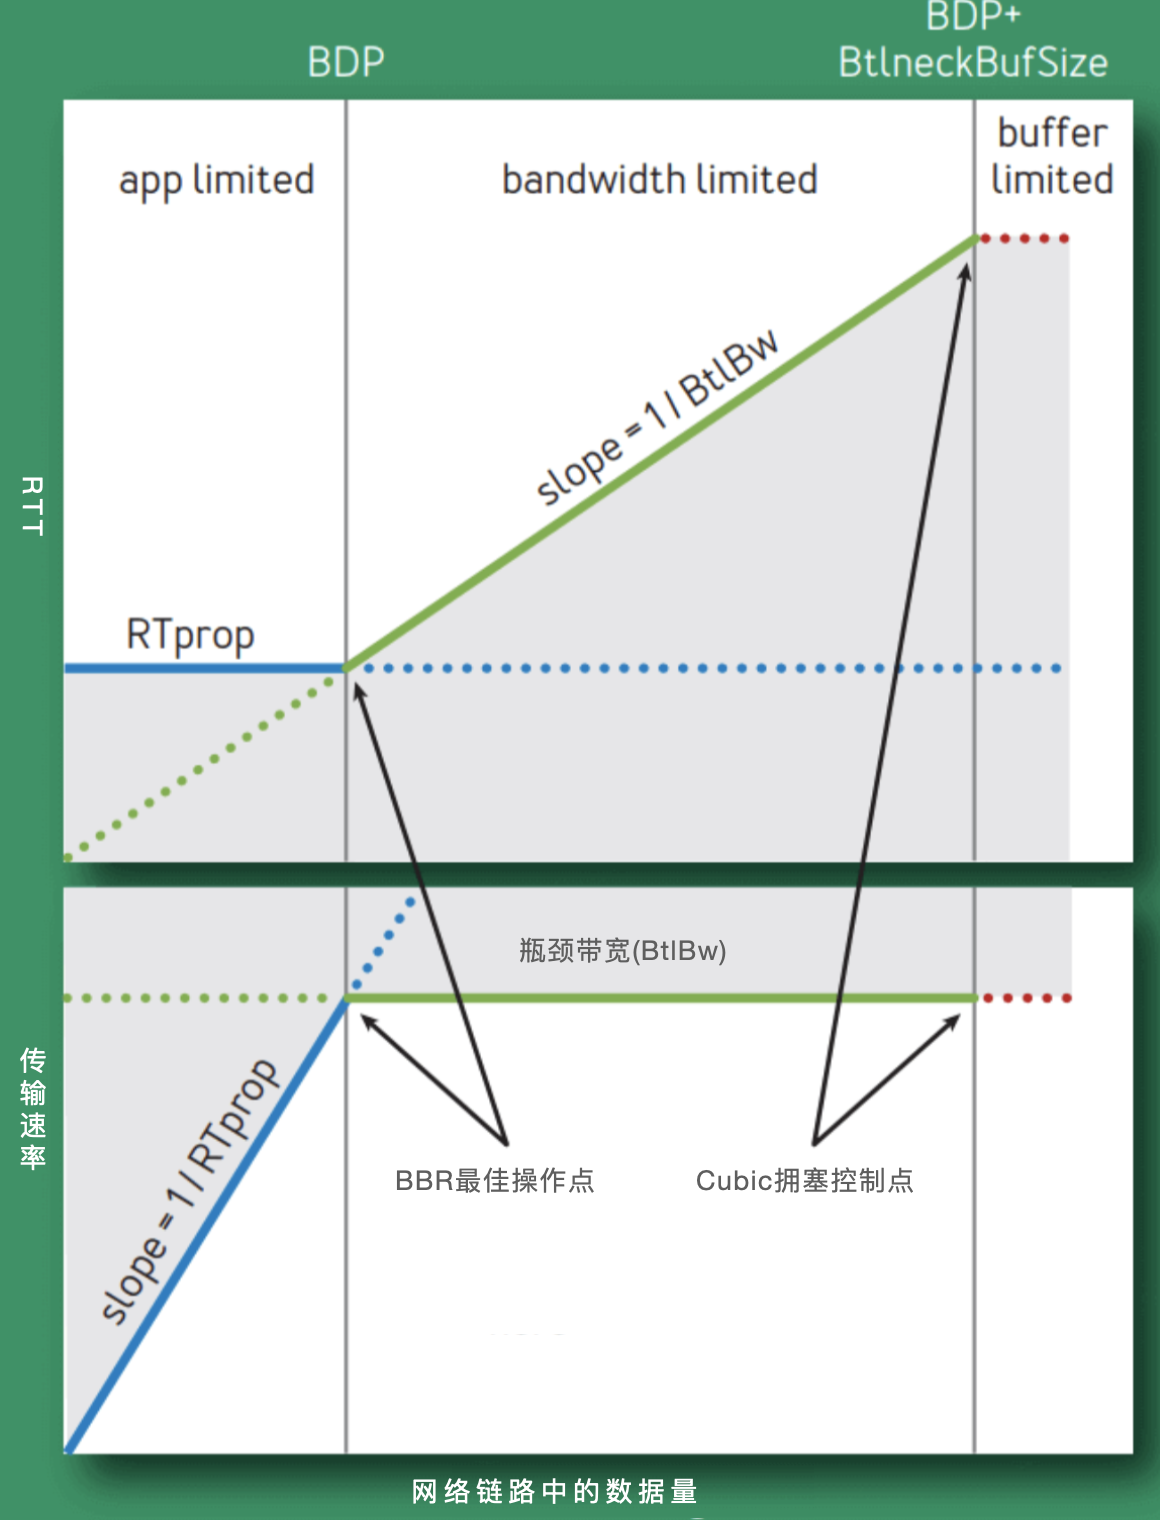
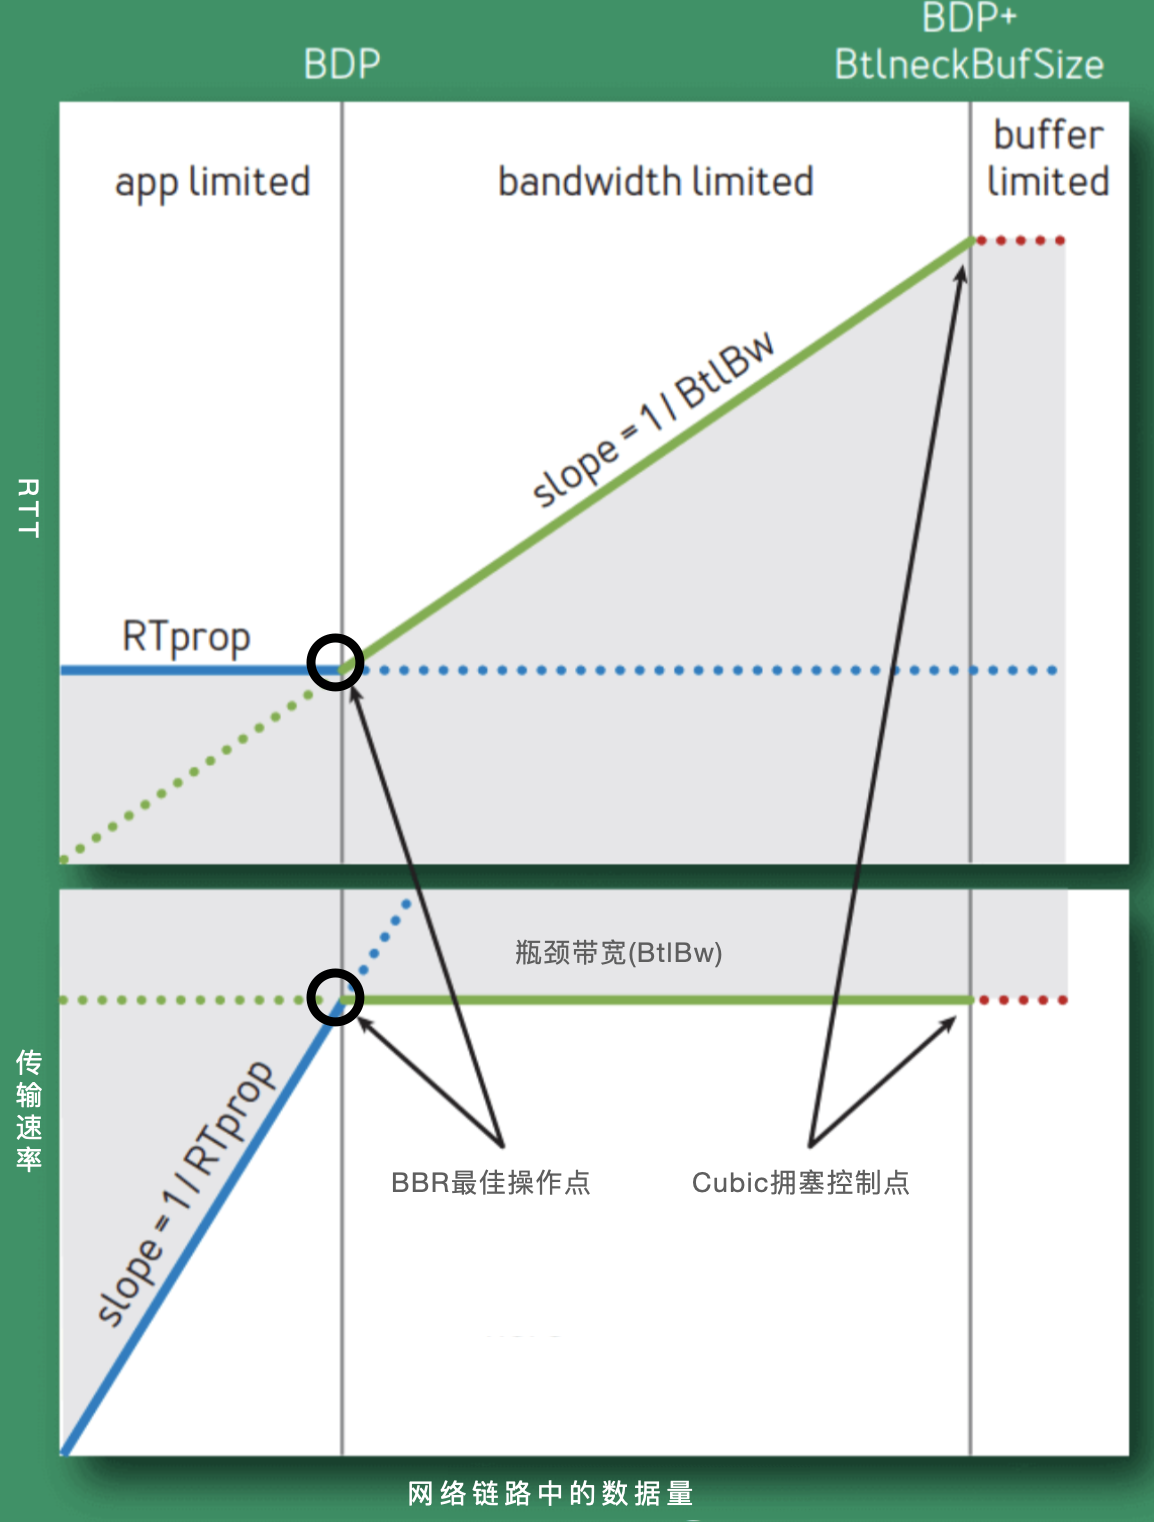
完成拥塞控制内容

diff --git a/http/bbr.md b/http/bbr.md
@@ -66,39 +66,16 @@ $ iperf3 -c 10.0.1.188 -p 8080
 
 如果说上一次1980年代的拥塞控制旨在收敛，那么这一次 BBR 则旨在效能最大化。
 
+### 1. 网络效能最大化
 
-### 1. 基于丢包的拥塞控制算法缺陷
-
-如图2-21所示，可以把网络链路想象为一根水管，路径上的中间设备（交换机、路由器等）会自带一个蓄水池（报文缓存队列），一般不会使用。而当水流变大时，蓄水池开始蓄水，如果超过蓄水极限，则水流会溢出(报文丢包)。当发送端感知到丢包时，传统的 TCP 拥塞控制算法会减小发送端的拥塞窗口 Cwnd，限制报文的发送。这类拥塞控制算法也被称为基于丢包（Loss-based）的拥塞控制算法。
-
-<div  align="center">
-	<img src="../assets/water.png" width = "450"  align=center />
-	<p>图2-21 网络链路概念</p>
-</div>
-
-### 2. 网络拥塞与控制
-
-来看一张来自 Google 文章内的设计图，如图2-22所示，通过该图我们先了解网络拥塞控制中的各个影响因素。
+拥塞控制的目的就是寻找网络工作中的最优点，如图2-22所示，圆圈所示即为网络工作的最优点。此时数据包的投递率=BtlBW(瓶颈链路带宽)，保证了瓶颈链路被100%利用；在途数据包总数=BDP(时延带宽积)，保证未占用 buffer。
 
 <div  align="center">
 	<img src="../assets/bbr-cc.png" width = "450"  align=center />
-	<p>图2-22 网络链路环境因素概览</p>
+	<p>图2-22 网络中的最优点</p>
 </div>
 
-图2-22从左到右可分为3个区域：
-
-- **(0, BDP)** 该区间客户端发送的数据并未占满瓶颈带宽，称为“应用受限区（app limited）”。
-- **(BDP, BtlneckBufSize)** 该区间已经达到链路瓶颈容量，但还未超过瓶颈容量+缓冲区容量，此时应用能发送的数据量受带宽限制，称为“带宽受限区（bandwidth limited）”。
-- **(BDP + BtlneckBufSize, infinity)** 该区间实际发送速率已经超过瓶颈容量+缓冲区容量 ，多出来的数据会被丢弃，缓冲区大小决定了丢包多少，称为“缓冲区受限区（buffer limited）”。
-
-拥塞控制的目的就是寻找网络工作中的最优点，如图2-23所示，红色圆圈所示即为网络工作的最优点，此时数据包的投递率=BtlBW(瓶颈链路带宽)，保证了瓶颈链路被100%利用；在途数据包总数=BDP(时延带宽积)，保证未占用 buffer。
-
-<div  align="center">
-	<img src="../assets/bbr-optimal-point.png" width = "450"  align=center />
-	<p>图2-23 寻找网络中的最优点</p>
-</div>
-
-然而 max BW 和 min RTT 不能被同时测得，如图2-24所示。要测量最大带宽，就要把瓶颈链路填满，此时 buffer 中有一定量的数据包，延迟较高。要测量最低延迟，就要保证 buffer 为空，网络中数据包越少越好，但此时带宽较低。
+然而拍瓶颈带宽和最小延迟无法同时测得，如图2-24所示。要测量最大带宽，就要把瓶颈链路填满，此时 buffer 中有一定量的数据包，影响延迟指标。要测量最低延迟，就要保证 buffer 为空，网络中数据包越少越好，但此时带宽较低。
 
 <div  align="center">
 	<img src="../assets/bbr-2.png" width = "450"  align=center />
@@ -109,39 +86,34 @@ $ iperf3 -c 10.0.1.188 -p 8080
 
 BBR 的设计思路是不再考虑丢包作为拥塞的判断条件，交替测量带宽和延迟，用一段时间内的带宽极大值（BtlBW）和延迟极小值（RTprop）作为估计值。
 
-**控制时机提前，不再等到丢包时再进行暴力限制，而是控制稳定的发包速度，尽量榨干带宽，却又不让报文在中间设备的缓存队列上累积**。为了榨干带宽，BBR 会周期性地去探测是否链路条件变好了，如果是，则加大发送速率。为了不让报文在中间设备的缓存队列上累积，BBR 会周期性地探测链路的最小 RTT，并使用该最小 RTT 计算发包速率。
+**BBR将控制时机提前，不再等到丢包时再进行暴力限制，而是控制稳定的发包速度，尽量榨干带宽，却又不让报文在中间设备的缓存队列上累积**。为了榨干带宽，BBR 会周期性地去探测是否链路条件变好了，如果是，则加大发送速率。为了不让报文在中间设备的缓存队列上累积，BBR 会周期性地探测链路的最小 RTT，并使用该最小 RTT 计算发包速率。
 
+### 4. BBR 状态机
 
-### 2. BBR 状态机
-
-采用 BBR 进行拥塞控制的流在任一时刻都是处于以下四个状态之一：启动（Startup）、排空（Drain）、带宽探测（Probe Bandwidth）和 时延探测（Probe RTT）。其中 Probe Bandwidth 属于稳态，其他三个状态都是暂态，如图2-23所示，四个状态的转移图。
+采用 BBR 进行拥塞控制时，任一时刻都是处于以下四个状态之一：启动（Startup）、排空（Drain）、带宽探测（Probe Bandwidth）和时延探测（Probe RTT）。其中带宽探测属于稳态，其他三个状态都是暂态，如图2-23所示，四个状态的转移图。
 
 <div  align="center">
 	<img src="../assets/bbr-status.png" width = "500"  align=center />
 	<p>图2-23 BBR 状态转移关系</p>
 </div>
 
-- 启动阶段（Startup）：当连接建立时，BBR 采用类似标准 TCP 的慢启动方式，指数增加发送速率，目的也是尽可能快得探测到带宽极大值（BtlBW）。当判断连续三个 RTT 时间内发送速率不再增长，说明已到达瓶颈带宽，状态切换至排空阶段（Drain）。
-- 排空阶段（Drain）：该阶段指数降低发送速率（相当于启动阶段的逆过程），将多占的 buffer 慢慢排空。
-- 完成以上两个阶段后，BBR 进行带宽探测(PROBE_BW)状态，该状态是bbr的一个稳定状态，bbr的大部分时间都在该状态运行，当bbr测量到瓶颈带宽和最小rtt，并且inflight等于BDP后，便开始以一个稳定的匀速维护着网络状态，偶尔小幅提速探测是否有更大带宽，偶尔小幅降速公平的让出部分带宽。
-- 时延探测(PROBE_RTT)，该状态下，每过10秒，如果估计延迟不变(未测量到比上周期最小RTT更小或等于的RTT值)，就进入延迟探测阶段，该状态下，cwnd被设置为4个MSS，并对RTT重新测量，持续200ms，超时后，根据网络带宽是否满载决定状态切换为STARTUP或PROBE_BW。
+- 启动阶段（Startup）：当连接建立时，BBR 采用类似标准 TCP 的慢启动方式，指数增加发送速率，目的是尽可能快的探测到带宽极大值（BtlBW）。当判断连续三个 RTT 时间内发送速率不再增长，说明已到达瓶颈带宽，此时状态切换至排空阶段。
+- 排空阶段（Drain）：该阶段指数降低发送速率（相当于启动阶段的逆过程），目的是将多占的 buffer 慢慢排空。
+- 完成以上两个阶段后，BBR 进入带宽探测阶段，BBR 大部分时间都在该状态运行。当 BBR 测量到瓶颈带宽和最小RTT，并且 inflight 等于 BDP 时，便开始以一个稳定的匀速维护着网络状态，偶尔小幅提速探测是否有更大带宽，偶尔小幅降速公平的让出部分带宽。
+- 时延探测阶段（PROBE_RTT）：该状态下，每过10秒，如果估计延迟不变(未测量到比上周期最小 RTT 更小或等于的 RTT 值)，就进入延迟探测阶段。该状态下，cwnd 被设置为4个 MSS，并对 RTT 重新测量，持续200ms，超时后，根据网络带宽是否满载决定状态切换为启动阶段或带宽探测阶段。
 
+### 5. BBR 实践结论
 
-### 3. BBR 实践结论
-
-BBR 算法对于大带宽长链路也就是高 BDP 网络环境中，例如跨海网络、尤其是在有轻微丢包的网络条件下，较传统的 cubic 算法，有一定的提升。
+如图2-29所示，BBR 算法在大带宽长链路，例如跨海网络，尤其是在有轻微丢包的网络环境下，较传统的 cubic 算法有很大的提升。
 
 <div  align="center">
 	<img src="../assets/result2.png" width = "500"  align=center />
 	<p>图2-29 BBR 性能测试</p>
 </div>
 
-笔者实践结论中，通过对 cubic 和 BBR 进行吞吐量测试，使用 BBR 提升了 30% ~ 45% 的吞吐率。表 2-2 综合使用不同拥塞控制算法、延迟和丢包参数所做的各种 TCP 吞吐量测试的全套测试，证明了在一定的丢包率（1.5%、3%）的情况下 BBR 的出色表现。
-
-在书写本节内容时，BBR 迭代到了 v3 版本，相信再经过一段时间，BBRv3 也会被提交到 Linux 内核主线中。
+笔者实践结论中，通过对 cubic 和 BBR 进行吞吐量测试，使用 BBR 后网络约提升了 30% ~ 45% 的吞吐率。Cisco 的工程师 Andree Toonk 在他的博客中验证了使用不同拥塞控制算法、延迟和丢包参数所做的各种TCP吞吐量测试的全套测试，证明了在一定的丢包率（1.5%、3%）的情况下BBR的出色表现[^3]。
 
 [^1]: 参见 https://datatracker.ietf.org/doc/html/rfc896
-[^1]: 参见 https://research.google/pubs/pub45646/
-[^2]: 参见 https://en.wikipedia.org/wiki/TCP_pacing
-[^2]: 参见 https://toonk.io/tcp-bbr-exploring-tcp-congestion-control/index.html
+[^2]: 参见 https://research.google/pubs/pub45646/
+[^3]: 参见 https://toonk.io/tcp-bbr-exploring-tcp-congestion-control/index.html
 

diff --git a/http/background.md b/http/background.md
@@ -7,7 +7,7 @@
 - 着陆页延迟每增加1s，转化率便降低7%
 - 高达 70% 的网络流量来自移动设备
 
-确保用户使用服务的流畅性，这就是要进行网络优化的原因。另外本章的主题是构建**足够快**的网络服务，那不妨就再增加个挑战，构建服务于“全球用户“且足够快的网络服务如何？
+确保用户使用服务的流畅性，这就是要进行网络优化的原因。另外本章的主题是构建**足够快**的网络服务，那不妨就再增加个挑战：构建服务于**全球用户**且**足够快**的网络服务如何？
 
 
 [^1]: Strangeloop 是电子商务和企业应用Web性能优化解决方案的技术服务商。

diff --git a/network/latency.md b/network/latency.md
@@ -1,6 +1,6 @@
 # 2.2 了解各类延迟指标
 
-既然本章的主题是构建足够快的网络服务，那么我们就需要对“快”有个基本了解。
+既然我们的目标是“足够快”，那么我们就需要对“快”有个基本了解。
 
 伯克利大学有个动态网页[^1]可以查看每年计算机中各类操作耗时、延迟的变化。笔者汇总了 2020 年的数据供读者参考，如表2-1所示，了解这些延迟指标有助于设计和比较不同的解决方案以及评估服务质量。
 
